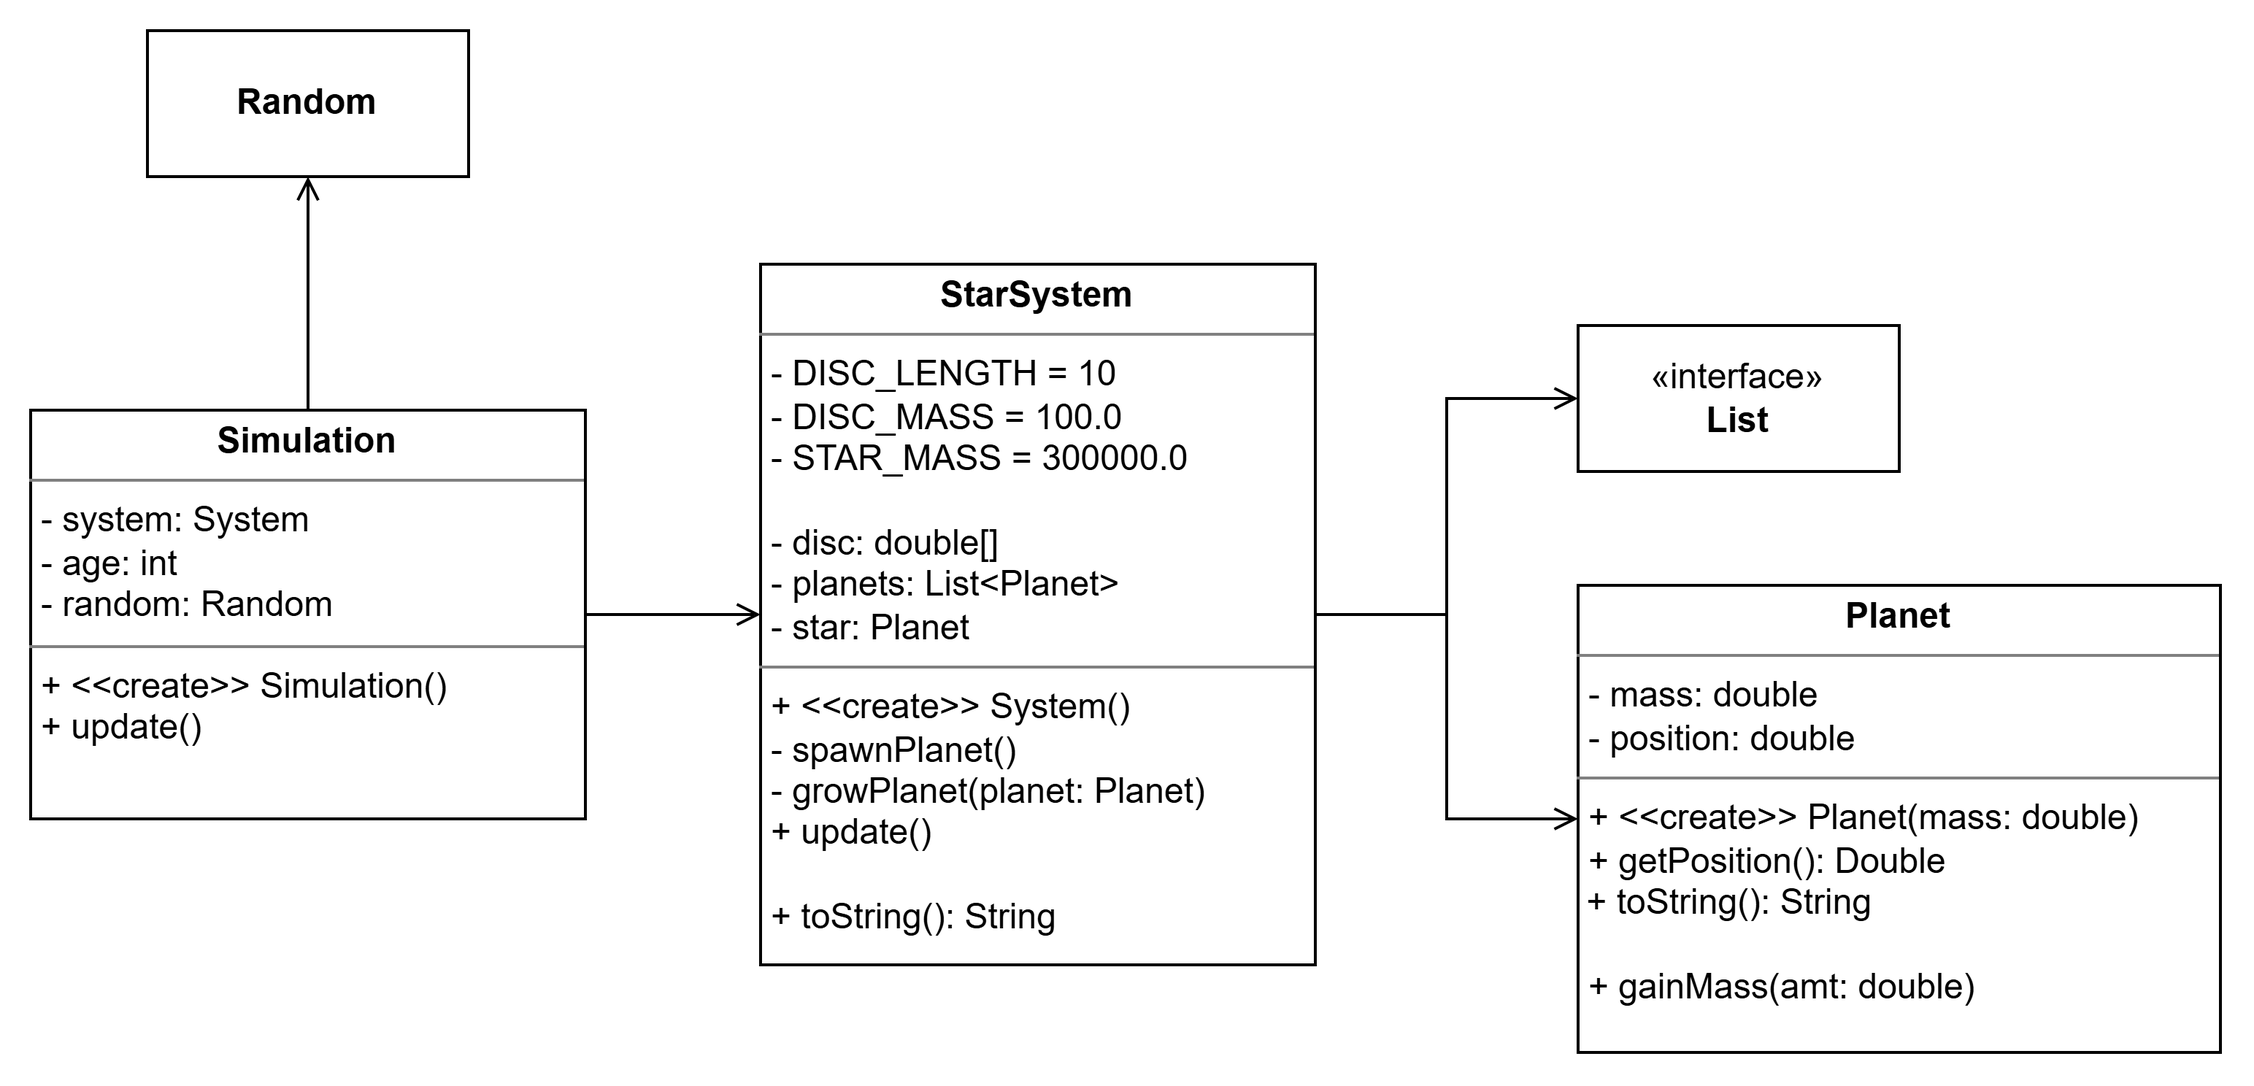
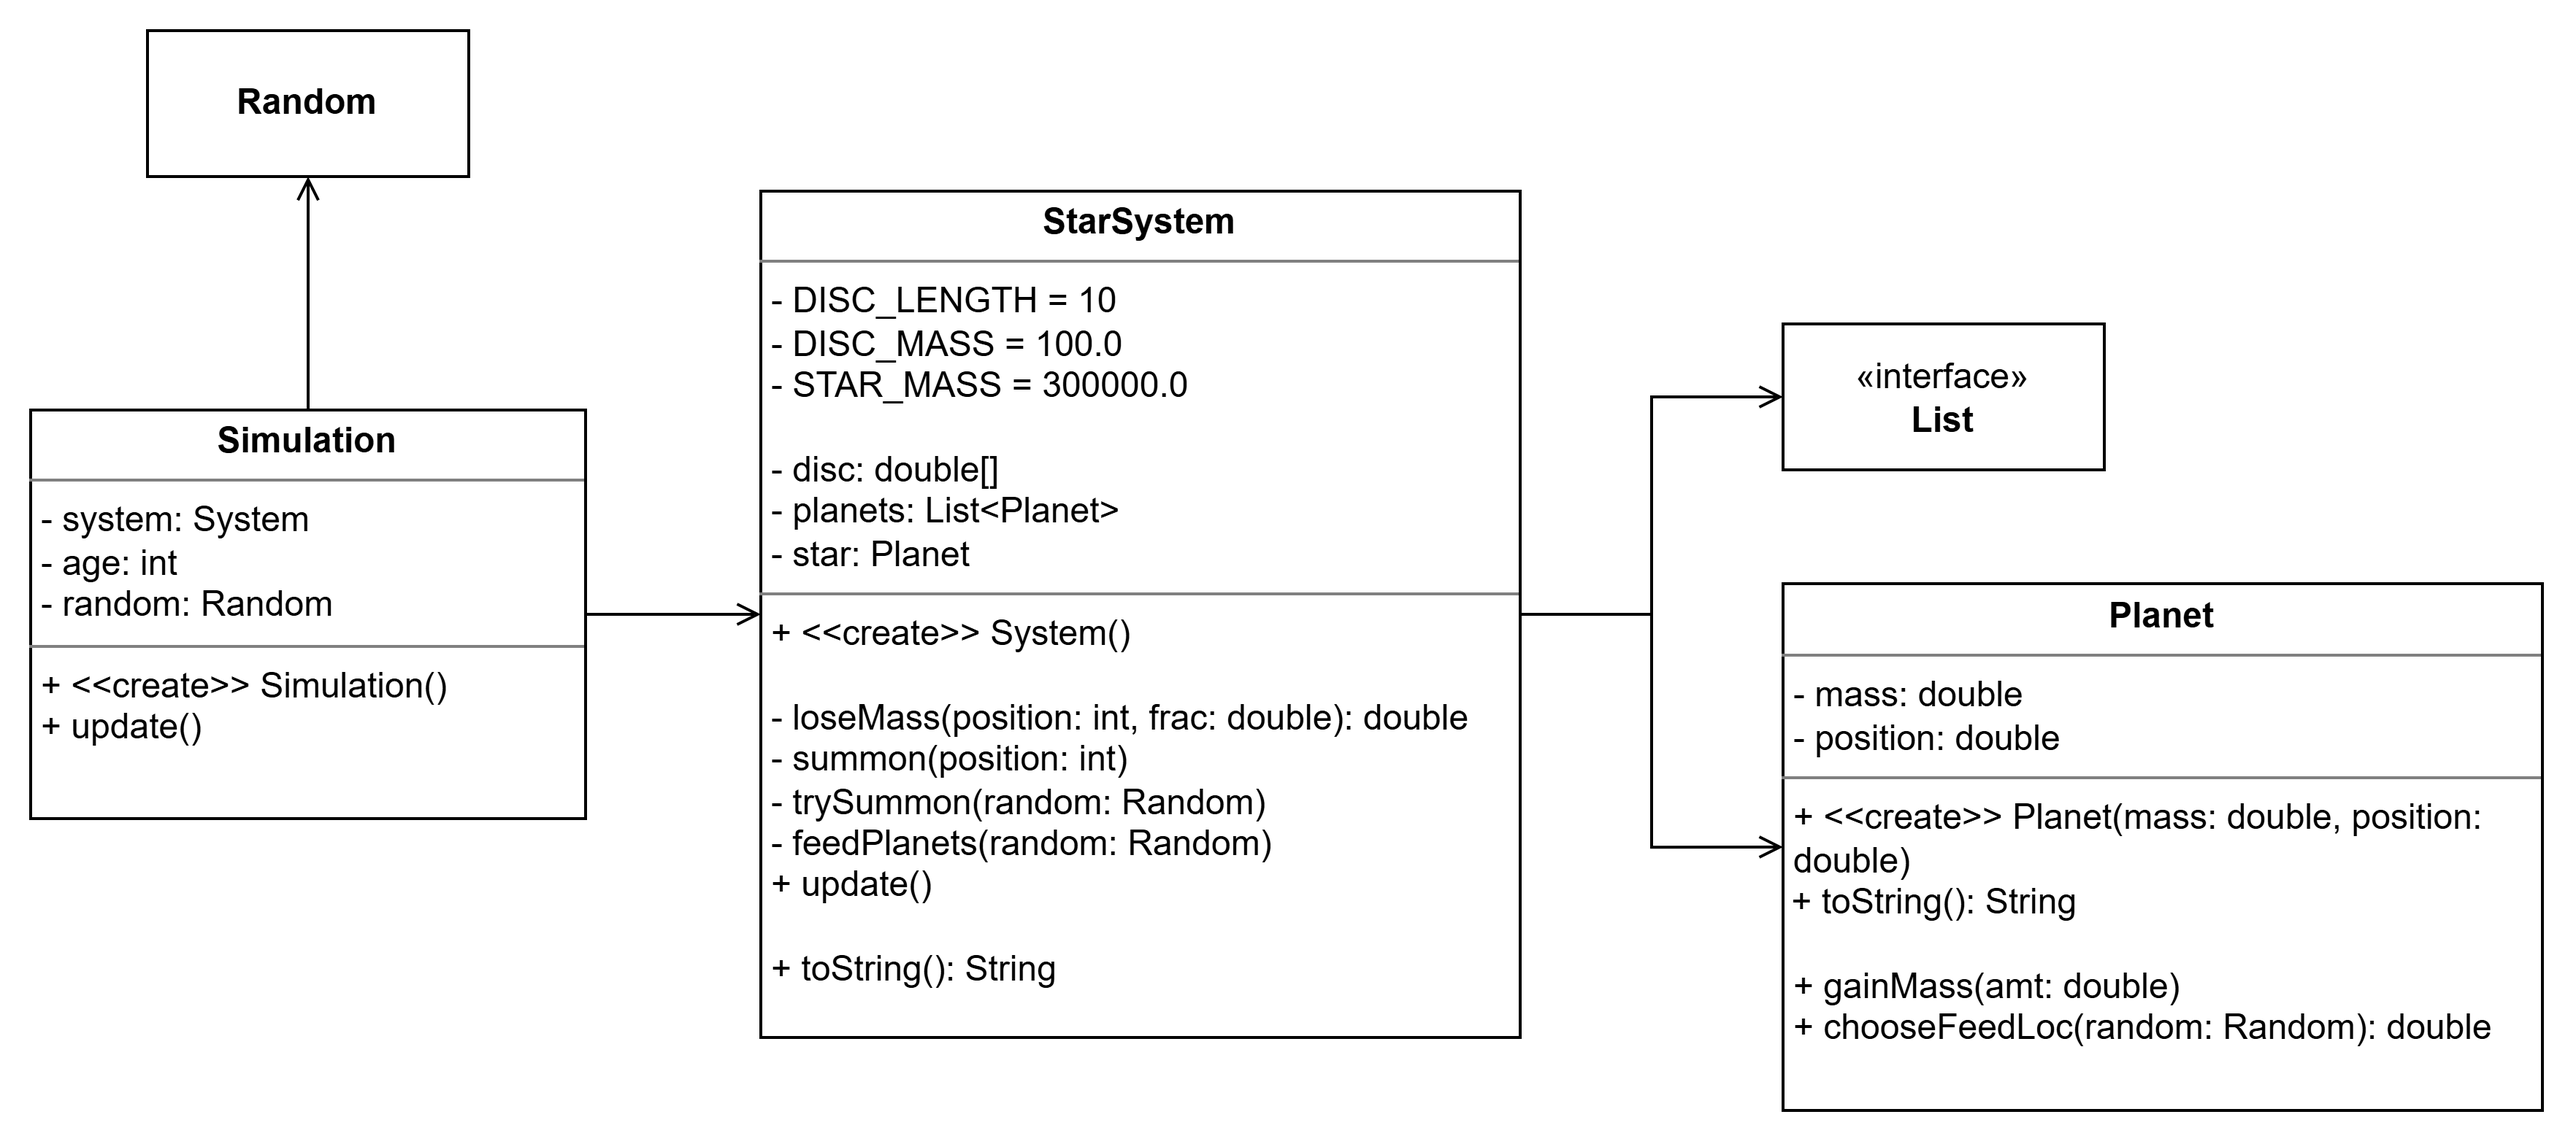
UML update

diff --git a/docs/dashboard.md b/docs/dashboard.md
@@ -12,6 +12,18 @@ Next Steps
 
 	- [X] Add `v0.2` milestones
 
+- [ ] Software Design
+
+	- [X] Describe requirements
+
+	- [X] Code outline
+
+	- [X] UML diagrams
+
+	- [ ] Code stubs
+
+	- [ ] Implementations 
+
 - [ ] `v0.2` milestones
 
 	- [ ] Planets can spawn
